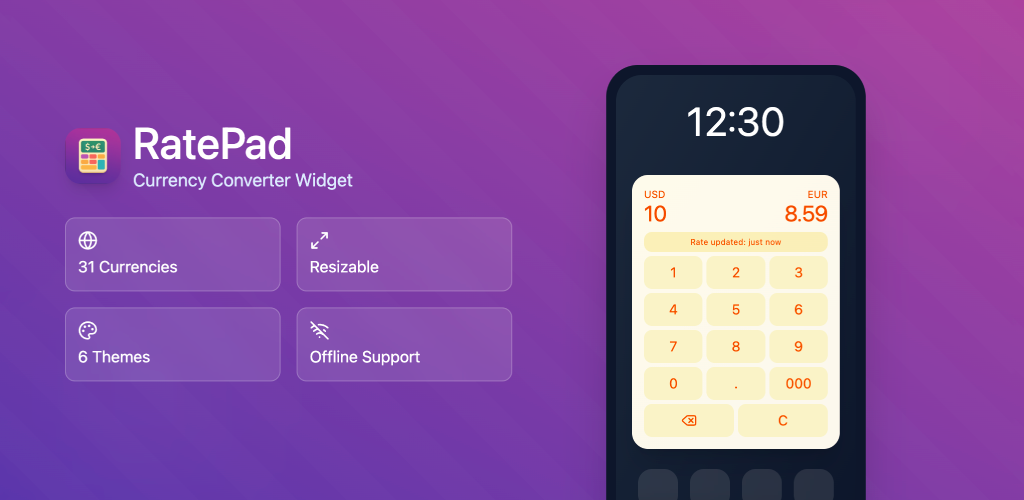
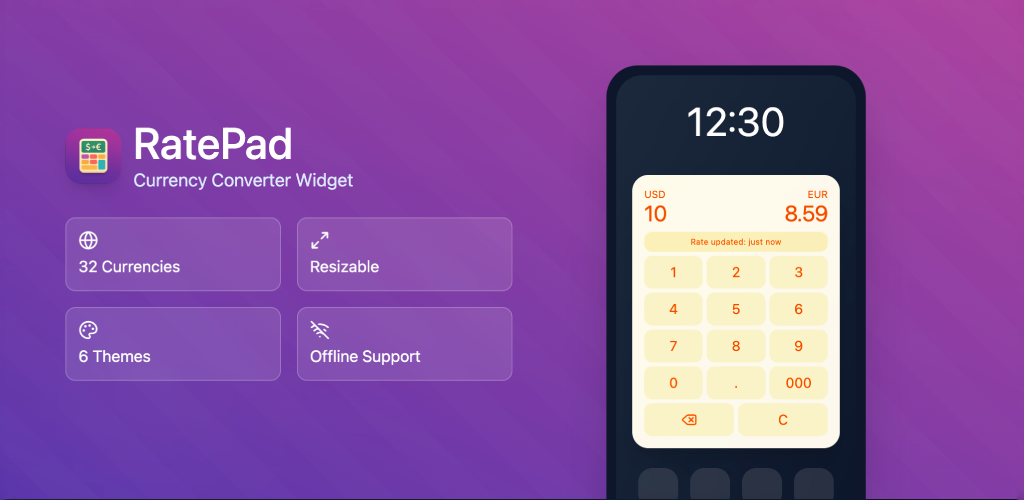
Update Play Store graphics and README

diff --git a/design/feature-graphic/figma.tsx b/design/feature-graphic/figma.tsx
@@ -43,7 +43,7 @@ return (
             <div className="bg-white/10 backdrop-blur-sm rounded-lg p-3 border border-white/20">
               <Globe className="w-5 h-5 text-white mb-1" />
               <div className="text-white" style={{ fontSize: "16px" }}>
-                32 Currencies
+                40 Currencies
               </div>
             </div>
             <div className="bg-white/10 backdrop-blur-sm rounded-lg p-3 border border-white/20">

diff --git a/README.md b/README.md
@@ -64,7 +64,7 @@ app/src/main/java/com/ilmariware/currencyconverterwidget/
 │   ├── FallbackExchangeRateApi.kt          # Fallback API (jsDelivr CDN)
 │   ├── WidgetPreferences.kt                # SharedPreferences wrapper
 │   └── models/
-│       ├── Currency.kt                     # Currency enum (32 currencies)
+│       ├── Currency.kt                     # Currency enum (40 currencies)
 │       ├── ExchangeRate.kt                 # Data models
 │       ├── UpdateFrequency.kt              # Update interval enum
 │       └── WidgetTheme.kt                  # Theme definitions (6 themes)
